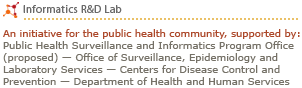
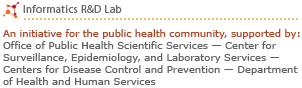
Updated App Lab with new org info

Changed region(s): [[0.0, 0.4545, 0.9834, 0.7273], [0.0, 0.7273, 0.9834, 0.8636], [0.0, 0.8636, 0.9834, 1.0]]

diff --git a/html/applab/clip_ipad.php b/html/applab/clip_ipad.php
@@ -129,8 +129,7 @@ require $path_to_comments_folder . "includes/commentics.php"; //no need to edit 
 
 
 
-<div id="footer"><span class="footer_text"><img src="images/footer.png" border="0" alt="Informatics R&D Lab | An initiative for the public health community, supported by: Public Health Surveillance and Informatics Program Office (proposed) -- Office of Surveillance, Epidemiology, and Laboratory Services -- Centers for Disease Control and Prevention -- Department of Health and Human Services" title="Informatics R&D Lab | An initiative for the public health community, supported by: Public Health Surveillance and Informatics Program Office (proposed) -- Office of Surveillance, Epidemiology, and Laboratory Services -- Centers for Disease Control and Prevention -- Department of Health and Human Services" /></span></div>
-<div id="bottom_line"></div>
+<div id="footer"><span class="footer_text"><img src="images/footer.png" border="0" alt="Informatics R&D Lab | An initiative for the public health community, supported by: Office of Public Health Scientific Services -- Center for Surveillance, Epidemiology, and Laboratory Services -- Centers for Disease Control and Prevention -- Department of Health and Human Services" title="Informatics R&D Lab | An initiative for the public health community, supported by: Office of Public Health Scientific Services -- Center for Surveillance, Epidemiology, and Laboratory Services -- Centers for Disease Control and Prevention -- Department of Health and Human Services"></div>
 
 
 </div><!--end of wrap-->

diff --git a/html/templates/firstpage/index.php b/html/templates/firstpage/index.php
@@ -133,7 +133,7 @@ defined( '_JEXEC' ) or die( 'Restricted access' );
 </div>
 
 <div class="supported">
-<img src="images/supported.png" border="0" height="60px" width="694px" alt="An initiative for the public health community, supported by: Public Health Surveillance and Informatics Program Office, Office of Surveillance, Epidemiology and Laboratory Services, Centers for Disease Control and Prevention, Department of Health and Human Services" title="An initiative for the public health community, supported by: Public Health Surveillance and Informatics Program Office, Office of Surveillance, Epidemiology and Laboratory Services, Centers for Disease Control and Prevention, Department of Health and Human Services" />
+<img src="images/supported.png" border="0" height="60px" width="694px" alt="Informatics R&D Lab | An initiative for the public health community, supported by: Office of Public Health Scientific Services -- Center for Surveillance, Epidemiology, and Laboratory Services -- Centers for Disease Control and Prevention -- Department of Health and Human Services" title="Informatics R&D Lab | An initiative for the public health community, supported by: Office of Public Health Scientific Services -- Center for Surveillance, Epidemiology, and Laboratory Services -- Centers for Disease Control and Prevention -- Department of Health and Human Services" />
 
 </div>
 
